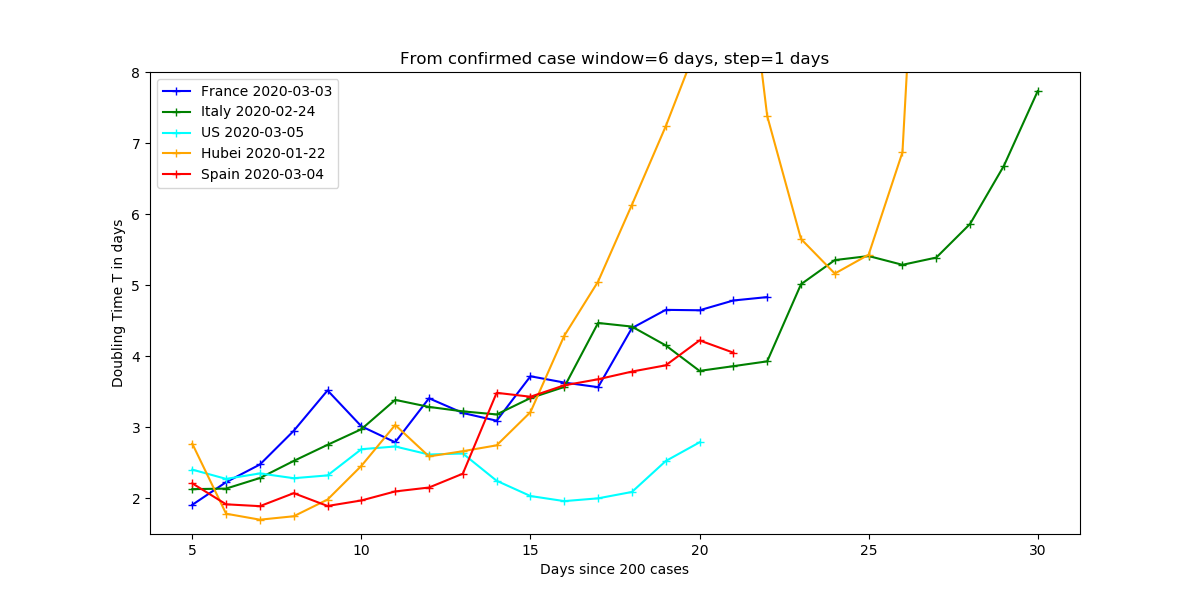
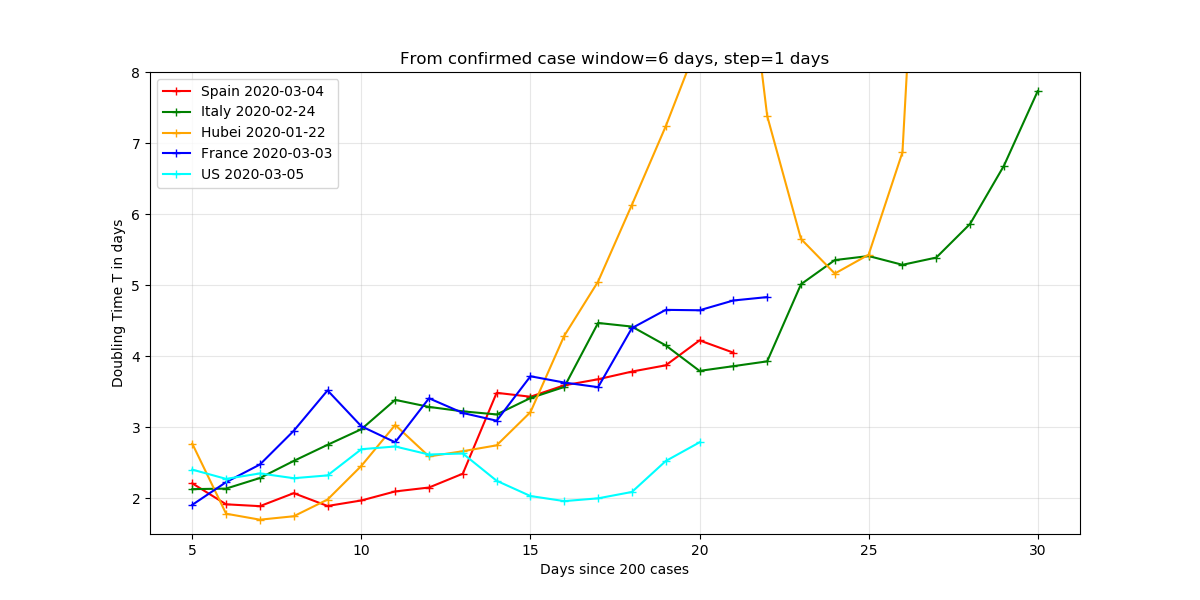
update of figures

Changed region(s): [[0.1233, 0.21, 0.2775, 0.3], [0.1542, 0.12, 0.2775, 0.18]]

diff --git a/coronapy_key_plots.py b/coronapy_key_plots.py
@@ -12,9 +12,9 @@ else:
     root = "./img"
 
 matplotlib.rcParams['figure.figsize'] = 12, 6 
-rcParams['axes.grid'] = True
-rcParams['axes.grid.which'] = 'both'
-rcParams['grid.alpha'] = 0.3
+matplotlib.rcParams['axes.grid'] = True
+matplotlib.rcParams['axes.grid.which'] = 'both'
+matplotlib.rcParams['grid.alpha'] = 0.3
 
          
 styles = {"France":{"color":"blue"}, 
